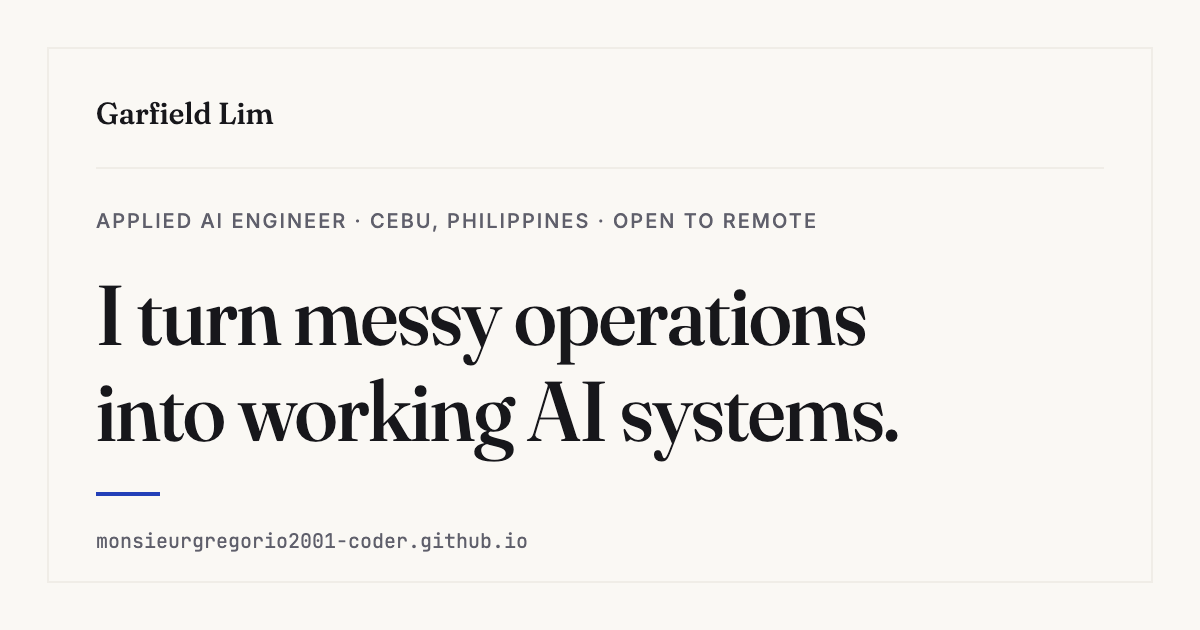
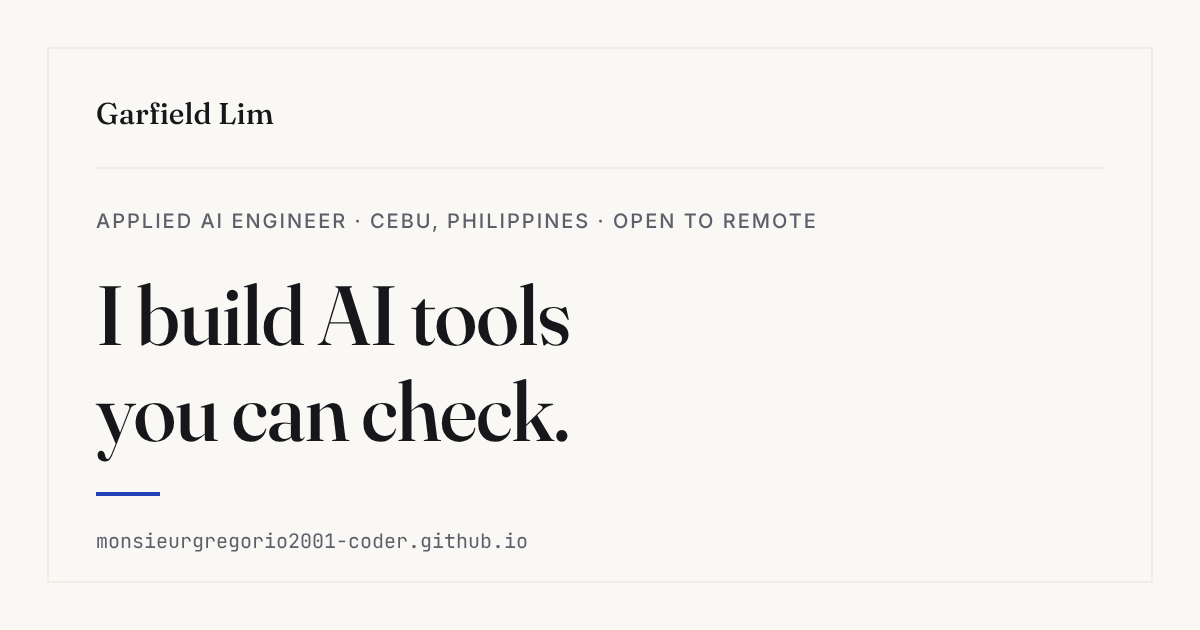
Launch: headline switch, contact heading, changelog, handover (phase 5)
Claude-Session: https://claude.ai/code/session_01Fv6Xfoe9n35GsF2vLWEWZP

diff --git a/index.html b/index.html
@@ -3,7 +3,7 @@
 <head>
 <meta charset="utf-8">
 <meta name="viewport" content="width=device-width, initial-scale=1">
-<title>Garfield Lim · Applied AI engineer</title>
+<title>Garfield Lim · I build AI tools you can check.</title>
 <meta name="description" content="Applied AI engineer in Cebu, Philippines, open to remote. Four projects. Each one lets you check its claim.">
 <meta name="color-scheme" content="light dark">
 <meta name="theme-color" content="#FAF8F4" media="(prefers-color-scheme: light)">
@@ -15,18 +15,18 @@
 <link rel="preload" href="/house/2.0.1/fonts/fraunces-latin-opsz-normal.woff2" as="font" type="font/woff2" crossorigin>
 <link rel="preload" href="/house/2.0.1/fonts/inter-latin-wght-normal.woff2" as="font" type="font/woff2" crossorigin>
 <meta property="og:type" content="website">
-<meta property="og:title" content="Garfield Lim · Applied AI engineer">
+<meta property="og:title" content="Garfield Lim · I build AI tools you can check.">
 <meta property="og:description" content="Applied AI engineer in Cebu, Philippines, open to remote. Four projects. Each one lets you check its claim.">
 <meta property="og:url" content="https://monsieurgregorio2001-coder.github.io/">
 <meta property="og:image" content="https://monsieurgregorio2001-coder.github.io/assets/og-image.png">
 <meta property="og:image:width" content="1200">
 <meta property="og:image:height" content="630">
-<meta property="og:image:alt" content="Garfield Lim. I turn messy operations into working AI systems.">
+<meta property="og:image:alt" content="Garfield Lim. I build AI tools you can check.">
 <meta name="twitter:card" content="summary_large_image">
-<meta name="twitter:title" content="Garfield Lim · Applied AI engineer">
+<meta name="twitter:title" content="Garfield Lim · I build AI tools you can check.">
 <meta name="twitter:description" content="Applied AI engineer in Cebu, Philippines, open to remote. Four projects. Each one lets you check its claim.">
 <meta name="twitter:image" content="https://monsieurgregorio2001-coder.github.io/assets/og-image.png">
-<meta name="twitter:image:alt" content="Garfield Lim. I turn messy operations into working AI systems.">
+<meta name="twitter:image:alt" content="Garfield Lim. I build AI tools you can check.">
 <link rel="stylesheet" href="/house/2.0.1/tokens.css">
 <link rel="stylesheet" href="/house/2.0.1/house.css">
 <link rel="stylesheet" href="/hub.css">
@@ -82,7 +82,7 @@
       <div class="hero-text" data-field-host>
         <canvas class="field" aria-hidden="true"></canvas>
         <p class="eyebrow">Applied AI engineer &middot; Cebu, Philippines<span class="eb-sep" aria-hidden="true"> &middot; </span><span class="eb-line">Open to remote</span></p>
-        <h1 id="hero-h" class="display is-interim">I turn messy operations into working AI systems.</h1>
+        <h1 id="hero-h" class="display">I build AI tools you can check.</h1>
         <p class="lede">Four projects. Each one lets you check its claim.</p>
       </div>
       <div class="doors" id="doors">
@@ -215,7 +215,7 @@
   <section id="contact" class="contact wrap" aria-labelledby="contact-h">
     <div class="section-head">
       <p class="eyebrow">Contact</p>
-      <h2 id="contact-h" class="title">Have a messy problem worth solving?</h2>
+      <h2 id="contact-h" class="title">Work with me</h2>
     </div>
     <p class="lede">I am open to remote roles and conversations about applied AI, so write to me or find me online.</p>
     <p class="contact-caps"><a class="house-capsule is-filled" href="mailto:lim.ggreg@outlook.com">Email me</a><button type="button" class="house-capsule is-text" data-house-copy="lim.ggreg@outlook.com">Copy address</button><a class="house-capsule is-ghost" href="https://www.linkedin.com/in/garfield-lim-8239242a9">LinkedIn</a><a class="house-capsule is-ghost" href="https://github.com/monsieurgregorio2001-coder">GitHub</a></p>

diff --git a/changelog/index.html b/changelog/index.html
@@ -83,6 +83,12 @@
       <h2 id="log-hub" class="cs-h">Hub and house</h2>
       <div class="log-entry">
         <h3>Unreleased <span class="log-date">2026-10-28</span></h3>
+
+      </div>
+      <div class="log-entry">
+        <h3>House 2.0.1 / Release V1, 2026-10-28 <span class="log-date">2026-10-28</span></h3>
+        <h4>Launch (phase 5)</h4>
+        <ul><li>Release V1, the Show Your Work launch. All five sites run on house 2.0.1: the hub and the four rooms (PaperLab, Online Paluwagan, Slop Editorial, Living Mindmap), each with a proof toy, a receipt and an <code>evidence.json</code> that the hub reads.</li><li>New headline &quot;I build AI tools you can check.&quot; with the subhead &quot;Four projects. Each one lets you check its claim.&quot; (ADR 0013). The page title, Open Graph and Twitter copy and <code>og-image.png</code> carry the same line. The old line stays in <code>site.json</code> as <code>fallback</code>.</li><li>The interim size cap on the H1 is gone, so it uses <code>--h-t-display</code>. <code>check-gate.mjs</code> now fails the build unless the H1 sets in exactly two lines at 360, 390 and 1440, with web fonts and with fallback fonts.</li><li>Contact heading is now &quot;Work with me&quot;. The word &quot;messy&quot; is retired from the hub. About is unchanged.</li><li>Living Mindmap is frozen at its wave 3 state and stays up as a Recorded demo until Gorges replaces it. Gorges comes after V1.</li><li>Handover: <code>docs/portfolio/handovers/2026-10-28-release-v1.md</code>. Screenshots in <code>docs/audits/shots/launch/</code>.</li></ul>
         <h4>Added (foyer polish, phase 4)</h4>
         <ul><li>Living Mindmap door, receipt and case CTA now open <code>/mindmap-mcp/</code> (&quot;Open the room&quot;) with a &quot;Recorded demo&quot; chip. <code>build.mjs</code> knows a <code>demo</code> status.</li><li>Order from noise (ADR 0012): on fine-pointer hover or keyboard focus of a door, the glyph cells nearest the door snap into that room&#39;s ASCII vocabulary from <code>house.json</code> in its hue over 320 ms, then relax after 1.2 s. Off in Calm. About 1.2 KB gz added to <code>field.js</code>.</li><li><code>scripts/check-keyboard.mjs</code>: skip link first, visible focus on every stop, no trap, Esc closes the menu and returns focus. In <code>npm run check</code> and <code>check.yml</code>.</li><li>Screenshots in <code>docs/audits/shots/wave-3/</code>.</li></ul>
         <h4>Changed (foyer polish, phase 4)</h4>

diff --git a/hub.css b/hub.css
@@ -37,8 +37,6 @@ section.wrap { padding-block: var(--h-sp-5); }
 .hero-text > :not(canvas) { position: relative; }
 .field { position: absolute; inset: 0; width: 100%; height: 100%; pointer-events: none; }
 .hero h1 { max-width: 14ch; }
-.hero h1.is-interim { max-width: 15ch; }
-.hero h1.is-interim { font-size: clamp(34px, 16px + 5vw, 72px); } /* 34 px at 360 keeps the last door inside 640 even with wide fallback serifs */
 .hero h1 .w { display: inline-block; white-space: nowrap; }
 .hero h1 .w > span { position: relative; display: inline-block; }
 .hero h1 .w > span.s { color: transparent; }
@@ -57,8 +55,7 @@ section.wrap { padding-block: var(--h-sp-5); }
   .hero-text { grid-column: 1 / 7; grid-row: 1; gap: var(--h-sp-3); padding-block: var(--h-sp-5); }
   .doors { grid-column: 7 / 13; grid-row: 1 / 3; }
   .hero-actions { grid-column: 1 / 7; grid-row: 2; align-self: start; }
-  .hero h1 { max-width: 12ch; }
-  .hero h1.is-interim { max-width: 14ch; font-size: clamp(56px, 24px + 3vw, 72px); }
+  .hero h1 { max-width: 13ch; }
   .hero .lede { font-size: 22px; line-height: 30px; }
   .eb-sep { display: inline; }
   .eb-line { display: inline; }

diff --git a/docs/portfolio/CURRENT-STATE.md b/docs/portfolio/CURRENT-STATE.md
@@ -1,33 +1,34 @@
 # Current state
 
-Updated: 2026-10-20 (Asia/Manila)
+Updated: 2026-10-28 (Asia/Manila)
 
 ## Now
 
-Garfield asked to finish the portfolio before the job search, with "the polish of Apple" and a willingness to "go a bit crazy", and delegated the whole portfolio to the agent ("do everything for the portfolio"). Job applications are parked. Their strategy and playbooks moved to the private workspace `_career/strategy/`.
+Release V1, the Show Your Work launch, is built and waiting for the live gate and the owner checklist. The hub headline is "I build AI tools you can check." (hub ADR 0013). Living Mindmap is frozen at its wave 3 state. Gorges replaces it after V1, with its own plan and room. Handover: [2026-10-28 Release V1](handovers/2026-10-28-release-v1.md). Plan: [Release V1](plans/2026-10-28-release-v1.md). Direction: [Show Your Work](design/DIRECTION.md).
 
-The portfolio-finish initiative has a direction: [Show Your Work](design/DIRECTION.md). One calm house, four lit rooms, and in each room one proof toy that lets a visitor check the project's claim. It was chosen by a three-direction design panel after hands-on audits of every project, a live-route check, and web research on 2026-10-20. Per-repository implementation plans are being written next and will be listed in [plans/](plans/README.md).
-
-Build order (DIRECTION section 10): 0 honesty sweep, 0b doorway bench, 1 house 2.0.0, 1b evidence.json in every room, 2 hub foyer, 3a to 3d the four rooms in parallel, 4 doorways across sites, 5 launch.
+Job applications are parked. Their strategy and playbooks live in the private workspace `_career/strategy/`.
 
 ## What is live
 
+All five sites run on house 2.0.1 (`/house/2.0.1/`, with 2.0.0 untouched beside it). Each room has one proof toy, a receipt, and a CI-written `evidence.json` that the hub reads into its figures.
+
 | Surface | State |
 | --- | --- |
-| Hub | October 15 polish release (hub ADRs 0001 to 0008): glyph-field hero, featured PaperLab, four case pages at `/work/<slug>/`, CI with html-validate, axe and link checks |
-| PaperLab | v1 live at `/paperlab/`. v2 "ladder" plan and tested maths kernels are open as PaperLab PRs #1 and #2 |
-| Online Paluwagan | live at `/paluwagan/` |
-| Living Mindmap | public repository, no hosted demo |
-| Slop Editorial | live at `/slop-editorial/` |
+| Hub | Foyer with four doors, receipts, case pages, colophon, changelog, 404, `llms.txt` and plain-text twins. Launch headline. Doorways between sites. Order from noise on the doors |
+| PaperLab | `/paperlab/`: Attention toy, honest heads, break the math. v1 at `/paperlab/legacy/` |
+| Online Paluwagan | `/paluwagan/`: check the books, forge a line, reminder inbox with a rubric eval |
+| Slop Editorial | `/slop-editorial/`: spend cap toy with parity fixtures |
+| Living Mindmap | `/mindmap-mcp/`: Recorded demo, scripted agent session, Ask the guard. Frozen, no more polish |
 | Five Rooms | local prototype only, not versioned |
 
-## Known issues to fix in the initiative
+Evidence pipeline: each room's CI writes `evidence.json`, the "Refresh evidence" workflow runs `npm run evidence:pull` and opens a PR, and `build.mjs` fails on any empty slot.
 
-- Hub: Living Mindmap card says Live without a hosted demo. Slop figure on the card (147 checks) matches neither its README (143 and 150) nor today's run (143).
-- PaperLab: the attention view sits below the fold, and the coreference preset implies a pattern random weights cannot show. README still says the deploy workflow has not run.
-- Paluwagan: desktop ledger table breaks words, phone schedule row is clipped, reminders quote the full contribution rather than the outstanding amount, and the AI boundary is hidden.
-- Living Mindmap: phone map view is unusable, plain Tab is trapped, AI provenance and duplicate refusal are nearly invisible, and there is no hosted demo. Tests need Node 20 or newer.
-- Slop Editorial: README check counts disagree, reduced-motion certificate page overflows, the 3D certificate reads weakly, and `npm run art` would overwrite the photographic set.
+## Known follow-ups
+
+- Foyer page length at 390 is 4,207 px against the 3,800 px target.
+- Inter re-cut with the peso sign (U+20B1). Recursive face for PaperLab.
+- Firefox and WebKit findings from the live gate, to be added by the lead.
+- Gorges plan and room, then retire the Living Mindmap room.
 
 ## Open owner decisions
 

diff --git a/docs/portfolio/handovers/2026-10-28-release-v1.md b/docs/portfolio/handovers/2026-10-28-release-v1.md
@@ -1,0 +1,41 @@
+# 2026-10-28: Release V1
+
+Release V1 is the Show Your Work launch (DIRECTION section 10, phase 5). This note says what shipped, where it lives, and what the owner still has to do.
+
+## What shipped
+
+- House 2.0.0 and 2.0.1, immutable folders under `/house/`. Every site runs on 2.0.1.
+- The hub foyer with the launch headline "I build AI tools you can check." and the subhead "Four projects. Each one lets you check its claim." The old line stays in `site.json` as `fallback`. Contact heading is "Work with me". About is unchanged.
+- Four rooms, each with one proof toy: PaperLab (break the attention math), Online Paluwagan (check the books, forge a line), Slop Editorial (spend cap), Living Mindmap (recorded session, Ask the guard).
+- Evidence pipeline: each room writes `evidence.json` in CI and the hub pulls it.
+- Living Mindmap is frozen at its wave 3 state as a Recorded demo. Gorges replaces it after V1.
+
+## Where each thing lives
+
+| Thing | Place |
+| --- | --- |
+| Headline, subhead, fallback | `site.json` |
+| Home page build | `scripts/build.mjs` (run `node scripts/build.mjs`) |
+| H1 two-line check, 10-second gate | `scripts/check-gate.mjs` |
+| Open Graph images | `assets/og-image.svg`, `scripts/og.mjs` |
+| Evidence | `data/evidence/`, `npm run evidence:pull` |
+| House | `house/src/`, `house/<version>/`, `house.lock.json` |
+| Changelog | `docs/CHANGELOG.md`, rendered at `/changelog/` |
+| Launch screenshots | `docs/audits/shots/launch/` |
+| Plan and direction | `docs/portfolio/plans/2026-10-28-release-v1.md`, `docs/portfolio/design/DIRECTION.md` |
+
+## Owner checklist
+
+- Accept or reverse ADRs 0009 to 0017 and the room ADRs.
+- Test on real iOS Safari 26 with VoiceOver, and on a mid-range Android.
+- Sign off the Paluwagan reminder rubric.
+- Close PaperLab PR #2 as superseded.
+- Enable Settings > Actions > General > "Allow GitHub Actions to create and approve pull requests", so the evidence refresh can open its PR.
+- Optional: create tags `house-2.0.0` and `house-2.0.1` at the pinned commits.
+
+## Known follow-ups
+
+- Foyer page length at 390 is 4,207 px against the 3,800 px target.
+- Inter re-cut with the peso sign. Recursive face for PaperLab.
+- Firefox and WebKit findings from the live gate (to be added by the lead).
+- Gorges: its own plan and room, then retire the Living Mindmap room.

diff --git a/docs/CHANGELOG.md b/docs/CHANGELOG.md
@@ -4,6 +4,16 @@ All user-visible changes to the hub. Newest first. Follows [Keep a Changelog](ht
 
 ## Unreleased
 
+## House 2.0.1 / Release V1, 2026-10-28
+
+### Launch (phase 5)
+- Release V1, the Show Your Work launch. All five sites run on house 2.0.1: the hub and the four rooms (PaperLab, Online Paluwagan, Slop Editorial, Living Mindmap), each with a proof toy, a receipt and an `evidence.json` that the hub reads.
+- New headline "I build AI tools you can check." with the subhead "Four projects. Each one lets you check its claim." (ADR 0013). The page title, Open Graph and Twitter copy and `og-image.png` carry the same line. The old line stays in `site.json` as `fallback`.
+- The interim size cap on the H1 is gone, so it uses `--h-t-display`. `check-gate.mjs` now fails the build unless the H1 sets in exactly two lines at 360, 390 and 1440, with web fonts and with fallback fonts.
+- Contact heading is now "Work with me". The word "messy" is retired from the hub. About is unchanged.
+- Living Mindmap is frozen at its wave 3 state and stays up as a Recorded demo until Gorges replaces it. Gorges comes after V1.
+- Handover: `docs/portfolio/handovers/2026-10-28-release-v1.md`. Screenshots in `docs/audits/shots/launch/`.
+
 ### Added (foyer polish, phase 4)
 - Living Mindmap door, receipt and case CTA now open `/mindmap-mcp/` ("Open the room") with a "Recorded demo" chip. `build.mjs` knows a `demo` status.
 - Order from noise (ADR 0012): on fine-pointer hover or keyboard focus of a door, the glyph cells nearest the door snap into that room's ASCII vocabulary from `house.json` in its hue over 320 ms, then relax after 1.2 s. Off in Calm. About 1.2 KB gz added to `field.js`.

diff --git a/changelog/index.md b/changelog/index.md
@@ -8,6 +8,17 @@ Changelog
 
 ### Unreleased 2026-10-28
 
+### House 2.0.1 / Release V1, 2026-10-28 2026-10-28
+
+ Launch (phase 5)
+
+- Release V1, the Show Your Work launch. All five sites run on house 2.0.1: the hub and the four rooms (PaperLab, Online Paluwagan, Slop Editorial, Living Mindmap), each with a proof toy, a receipt and an `evidence.json` that the hub reads.
+- New headline "I build AI tools you can check." with the subhead "Four projects. Each one lets you check its claim." (ADR 0013). The page title, Open Graph and Twitter copy and `og-image.png` carry the same line. The old line stays in `site.json` as `fallback`.
+- The interim size cap on the H1 is gone, so it uses `--h-t-display`. `check-gate.mjs` now fails the build unless the H1 sets in exactly two lines at 360, 390 and 1440, with web fonts and with fallback fonts.
+- Contact heading is now "Work with me". The word "messy" is retired from the hub. About is unchanged.
+- Living Mindmap is frozen at its wave 3 state and stays up as a Recorded demo until Gorges replaces it. Gorges comes after V1.
+- Handover: `docs/portfolio/handovers/2026-10-28-release-v1.md`. Screenshots in `docs/audits/shots/launch/`.
+
  Added (foyer polish, phase 4)
 
 - Living Mindmap door, receipt and case CTA now open `/mindmap-mcp/` ("Open the room") with a "Recorded demo" chip. `build.mjs` knows a `demo` status.

diff --git a/docs/TRACKER.md b/docs/TRACKER.md
@@ -163,3 +163,15 @@ Plan: [`portfolio/design/DIRECTION.md`](portfolio/design/DIRECTION.md), section 
 | Mindmap door to Recorded demo, room CTAs | review | `phase-4/foyer-polish`. |
 | Keyboard pass in CI | review | `scripts/check-keyboard.mjs`. |
 | Phone page length about 3,800 px | review | 4,207 px at 390 and 3,940 px at 1440 after receipts were tightened. About 400 px over target. |
+
+## Phase 5: Launch (release V1, wave 4)
+
+| Item | Status | Notes |
+| --- | --- | --- |
+| Headline switch to "I build AI tools you can check." | review | `site.json`, interim size cap removed, title, Open Graph and Twitter copy and `og-image.png` changed together. `phase-5/launch` |
+| H1 in exactly two lines at 360, 390 and 1440 | review | asserted in `scripts/check-gate.mjs`, web fonts and fallback fonts |
+| Contact heading "Work with me" | review | retires "messy" |
+| Changelog "House 2.0.1 / Release V1" | review | `docs/CHANGELOG.md` and `/changelog/` |
+| CURRENT-STATE and handover | review | `docs/portfolio/handovers/2026-10-28-release-v1.md` |
+| Launch screenshots | review | `docs/audits/shots/launch/` at 360, 390, 1440, light and dark |
+| Live gate, Firefox and WebKit, real devices | todo | lead and owner, see the handover |

diff --git a/docs/portfolio/handovers/LATEST.md b/docs/portfolio/handovers/LATEST.md
@@ -1,5 +1,5 @@
 # Latest handover
 
-Read [2026-10-28: Moving the workspace to another computer](2026-10-28-machine-handover.md), then [2026-10-20: Portfolio initiative and docs reconciliation](2026-10-20-portfolio-initiative.md).
+Read [2026-10-28: Release V1](2026-10-28-release-v1.md), then [2026-10-28: Moving the workspace to another computer](2026-10-28-machine-handover.md).
 
 The job-search handovers moved to the private workspace `_career/strategy/handovers/`.

diff --git a/index.md b/index.md
@@ -1,6 +1,6 @@
 Applied AI engineer · Cebu, Philippines · Open to remote
 
-# I turn messy operations into working AI systems.
+# I build AI tools you can check.
 
  Four projects. Each one lets you check its claim.
 
@@ -141,7 +141,7 @@ No evals. Nothing here is model output to score.
 
  Contact
 
-## Have a messy problem worth solving?
+## Work with me
 
  I am open to remote roles and conversations about applied AI, so write to me or find me online.
 
